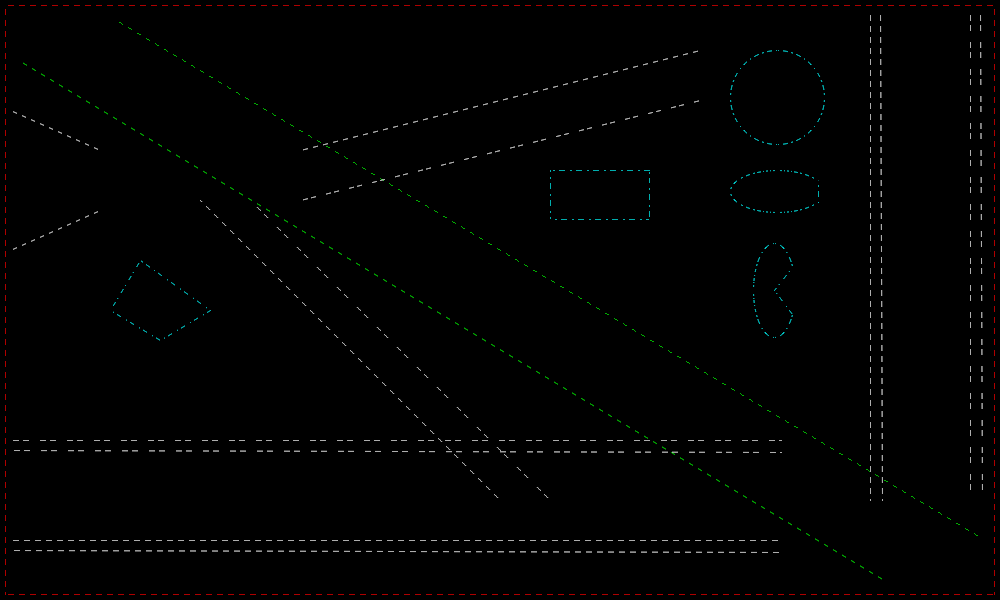
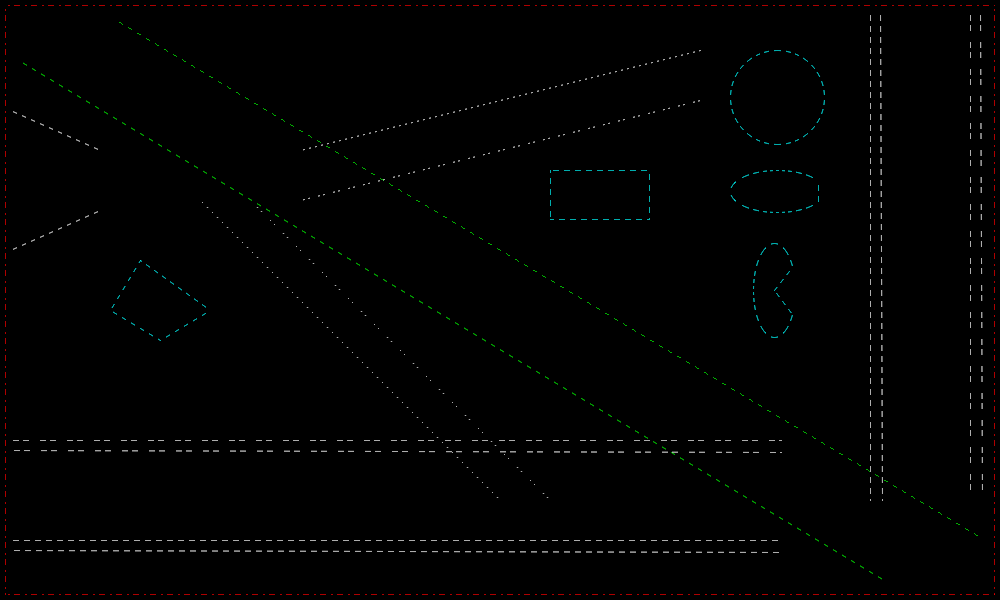
Fixing patterned line

Changed region(s): [[0.992, 0.33, 1.0, 0.36], [0.992, 0.27, 1.0, 0.3]]

diff --git a/src/Pt-Gfx/ImagePainter2_Ellipse.cpp b/src/Pt-Gfx/ImagePainter2_Ellipse.cpp
@@ -191,9 +191,6 @@ void ImagePainter2::drawOnePixelEllipseArcImpl(const PointF& topLeft, const Size
     //     * The movement from begin angle to end angle must be in counter-clockwise (CCW), otherwise
     //       something wrong will be drawn.
 
-    // Draw using solid pen?
-    const bool solid = (_rasterizer->pen().style() == Pen::Solid);
-
     // Shall we draw an ellipse or arc?
     const bool drawArc = (degBegin != 0) || (degEnd != 0);
 
@@ -207,6 +204,12 @@ void ImagePainter2::drawOnePixelEllipseArcImpl(const PointF& topLeft, const Size
     const Pt::int32_t radX2 = radX * radX;
     const Pt::int32_t radY2 = radY * radY;
     const float       xyRat = (float) radX / (float) radY;
+
+    // Draw using solid pen?
+    const bool solid = (_rasterizer->pen().style() == Pen::Solid);
+
+    // Calculate the scaling factor for retrieving alphas from the pattern buffer
+    const float pbScale = solid ? 1.0f : (radX + radY) / 100.0f;
 
     // Drawing an arc requires more parameters and calculation
     Pt::int32_t bx = 0, x1 = 0, x1d = MAXIMUM_COORD; // Begin point
@@ -256,8 +259,8 @@ void ImagePainter2::drawOnePixelEllipseArcImpl(const PointF& topLeft, const Size
                 if(solid)
                     _rasterizer->stroke4Pixels(xl, yt, xr, yb, mask);
                 else {
-                    const Pt::uint8_t pbv = _rasterizer->patternBufferValue(convertCartesianToPolarCoordinate(x, y));
-                    if(pbv) _rasterizer->stroke4Pixels(xl, yt, xr, yb, mask);
+                    const Pt::uint8_t pba = _rasterizer->patternBufferAlphaPolar(x, y, pbScale);
+                    if(pba) _rasterizer->stroke4Pixels(xl, yt, xr, yb, mask);
                 }
                 // Determine the exact coordinates of the closing lines
                 if(arcMode == ArcMode::Open) continue;
@@ -275,8 +278,8 @@ void ImagePainter2::drawOnePixelEllipseArcImpl(const PointF& topLeft, const Size
                 if(solid)
                    _rasterizer->stroke4Pixels(xl, yt, xr, yb);
                 else {
-                    const Pt::uint8_t pbv = _rasterizer->patternBufferValue(convertCartesianToPolarCoordinate(x, y));
-                    if(pbv) _rasterizer->stroke4Pixels(xl, yt, xr, yb);
+                    const Pt::uint8_t pba = _rasterizer->patternBufferAlphaPolar(x, y, pbScale);
+                    if(pba) _rasterizer->stroke4Pixels(xl, yt, xr, yb);
                 }
             }
         }
@@ -311,10 +314,10 @@ void ImagePainter2::drawOnePixelEllipseArcImpl(const PointF& topLeft, const Size
                     _rasterizer->stroke4Pixels(xl, yt1, xr, yb1, a1, mask1);
                 }
                 else {
-                    const Pt::uint8_t pbv0 = _rasterizer->patternBufferValue(convertCartesianToPolarCoordinate(x, y), a0);
-                    const Pt::uint8_t pbv1 = _rasterizer->patternBufferValue(convertCartesianToPolarCoordinate(x, y), a1);
-                    _rasterizer->stroke4Pixels(xl, yt0, xr, yb0, pbv0, mask0);
-                    _rasterizer->stroke4Pixels(xl, yt1, xr, yb1, pbv1, mask1);
+                    const Pt::uint8_t pba0 = _rasterizer->patternBufferAlphaPolar(x, y, pbScale, a0);
+                    const Pt::uint8_t pba1 = _rasterizer->patternBufferAlphaPolar(x, y, pbScale, a1);
+                    _rasterizer->stroke4Pixels(xl, yt0, xr, yb0, pba0, mask0);
+                    _rasterizer->stroke4Pixels(xl, yt1, xr, yb1, pba1, mask1);
                 }
                 // Determine the exact coordinates of the closing lines
                 if(arcMode == ArcMode::Open) continue;
@@ -340,10 +343,10 @@ void ImagePainter2::drawOnePixelEllipseArcImpl(const PointF& topLeft, const Size
                     _rasterizer->stroke4Pixels(xl, yt1, xr, yb1, a1);
                 }
                 else {
-                    const Pt::uint8_t pbv0 = _rasterizer->patternBufferValue(convertCartesianToPolarCoordinate(x, y), a0);
-                    const Pt::uint8_t pbv1 = _rasterizer->patternBufferValue(convertCartesianToPolarCoordinate(x, y), a1);
-                    _rasterizer->stroke4Pixels(xl, yt0, xr, yb0, pbv0);
-                    _rasterizer->stroke4Pixels(xl, yt1, xr, yb1, pbv1);
+                    const Pt::uint8_t pba0 = _rasterizer->patternBufferAlphaPolar(x, y, pbScale, a0);
+                    const Pt::uint8_t pba1 = _rasterizer->patternBufferAlphaPolar(x, y, pbScale, a1);
+                    _rasterizer->stroke4Pixels(xl, yt0, xr, yb0, pba0);
+                    _rasterizer->stroke4Pixels(xl, yt1, xr, yb1, pba1);
                 }
             }
         }
@@ -376,8 +379,8 @@ void ImagePainter2::drawOnePixelEllipseArcImpl(const PointF& topLeft, const Size
                 if(solid)
                     _rasterizer->stroke4Pixels(xl, yt, xr, yb, mask);
                 else {
-                    const Pt::uint8_t pbv = _rasterizer->patternBufferValue(convertCartesianToPolarCoordinate(x, y));
-                    if(pbv) _rasterizer->stroke4Pixels(xl, yt, xr, yb, mask);
+                    const Pt::uint8_t pba = _rasterizer->patternBufferAlphaPolar(x, y, pbScale);
+                    if(pba) _rasterizer->stroke4Pixels(xl, yt, xr, yb, mask);
                 }
                 // Determine the exact coordinates of the closing lines
                 if(arcMode == ArcMode::Open) continue;
@@ -395,8 +398,8 @@ void ImagePainter2::drawOnePixelEllipseArcImpl(const PointF& topLeft, const Size
                 if(solid)
                     _rasterizer->stroke4Pixels(xl, yt, xr, yb);
                 else {
-                    const Pt::uint8_t pbv = _rasterizer->patternBufferValue(convertCartesianToPolarCoordinate(x, y));
-                    if(pbv) _rasterizer->stroke4Pixels(xl, yt, xr, yb);
+                    const Pt::uint8_t pba = _rasterizer->patternBufferAlphaPolar(x, y, pbScale);
+                    if(pba) _rasterizer->stroke4Pixels(xl, yt, xr, yb);
                 }
             }
         }
@@ -431,10 +434,10 @@ void ImagePainter2::drawOnePixelEllipseArcImpl(const PointF& topLeft, const Size
                     _rasterizer->stroke4Pixels(xl1, yt, xr1, yb, a1, mask1);
                 }
                 else {
-                    const Pt::uint8_t pbv0 = _rasterizer->patternBufferValue(convertCartesianToPolarCoordinate(x, y), a0);
-                    const Pt::uint8_t pbv1 = _rasterizer->patternBufferValue(convertCartesianToPolarCoordinate(x, y), a1);
-                    _rasterizer->stroke4Pixels(xl0, yt, xr0, yb, pbv0, mask0);
-                    _rasterizer->stroke4Pixels(xl1, yt, xr1, yb, pbv1, mask1);
+                    const Pt::uint8_t pba0 = _rasterizer->patternBufferAlphaPolar(x, y, pbScale, a0);
+                    const Pt::uint8_t pba1 = _rasterizer->patternBufferAlphaPolar(x, y, pbScale, a1);
+                    _rasterizer->stroke4Pixels(xl0, yt, xr0, yb, pba0, mask0);
+                    _rasterizer->stroke4Pixels(xl1, yt, xr1, yb, pba1, mask1);
                 }
                 // Determine the exact coordinates of the closing lines
                 if(arcMode == ArcMode::Open) continue;
@@ -460,10 +463,10 @@ void ImagePainter2::drawOnePixelEllipseArcImpl(const PointF& topLeft, const Size
                     _rasterizer->stroke4Pixels(xl1, yt, xr1, yb, a1);
                 }
                 else {
-                    const Pt::uint8_t pbv0 = _rasterizer->patternBufferValue(convertCartesianToPolarCoordinate(x, y), a0);
-                    const Pt::uint8_t pbv1 = _rasterizer->patternBufferValue(convertCartesianToPolarCoordinate(x, y), a1);
-                    _rasterizer->stroke4Pixels(xl0, yt, xr0, yb, pbv0);
-                    _rasterizer->stroke4Pixels(xl1, yt, xr1, yb, pbv1);
+                    const Pt::uint8_t pba0 = _rasterizer->patternBufferAlphaPolar(x, y, pbScale, a0);
+                    const Pt::uint8_t pba1 = _rasterizer->patternBufferAlphaPolar(x, y, pbScale, a1);
+                    _rasterizer->stroke4Pixels(xl0, yt, xr0, yb, pba0);
+                    _rasterizer->stroke4Pixels(xl1, yt, xr1, yb, pba1);
                 }
             }
         }

diff --git a/src/Pt-Gfx/tests/ImagePainterTest2_Draw_Outline.cpp b/src/Pt-Gfx/tests/ImagePainterTest2_Draw_Outline.cpp
@@ -65,7 +65,7 @@ static void testDrawPatternedLine(const char* title, Image& image, Painter& pain
 
     if(ip2) ip2->setAntiAliasingMode(AntiAliasingMode::Fastest);
 
-    painter.setPen( Pen( Color::fromRgb8(255, 0, 0, 175), 1, Pen::Dash )  );
+    painter.setPen( Pen( Color::fromRgb8(255, 0, 0, 175), 1, Pen::DotDash )  );
     painter.drawLine( PointF(  5,   5), PointF(994,   5) );
     painter.drawLine( PointF(  5, 594), PointF(994, 594) );
     painter.drawLine( PointF(  5,   5), PointF(  5, 594) );
@@ -75,11 +75,11 @@ static void testDrawPatternedLine(const char* title, Image& image, Painter& pain
     painter.drawLine( PointF( 10, 110), PointF(100, 150) );
     painter.drawLine( PointF( 10, 250), PointF(100, 210) );
 
-    painter.setPen( Pen( Color::fromRgb8(255, 255, 255, 175), 1, Pen::Dash )  );
+    painter.setPen( Pen( Color::fromRgb8(255, 255, 255, 175), 1, Pen::Dot )  );
     painter.drawLine( PointF(500, 500), PointF(200, 200) );
     painter.drawLine( PointF(300, 150), PointF(700,  50) );
 
-    painter.setPen( Pen( Color::fromRgb8(255, 255, 255, 175), 1, Pen::DoubleDash )  );
+    painter.setPen( Pen( Color::fromRgb8(255, 255, 255, 175), 1, Pen::DoubleDot )  );
     painter.drawLine( PointF(550, 500), PointF(250, 200) );
     painter.drawLine( PointF(300, 200), PointF(700, 100) );
 
@@ -96,7 +96,7 @@ static void testDrawPatternedLine(const char* title, Image& image, Painter& pain
     painter.drawLine( PointF(781, 452), PointF( 10, 450) );
 
     if(ip2) ip2->setAntiAliasingMode(AntiAliasingMode::Fastest);
-    painter.setPen( Pen( Color::fromRgb8(0, 255, 255, 175), 1, Pen::DotDash )  );
+    painter.setPen( Pen( Color::fromRgb8(0, 255, 255, 175), 1, Pen::Dash )  );
 
     const PointF poly[] = { // CCW
         PointF(110, 310),

diff --git a/include/Pt/Gfx/ImagePainter2.h b/include/Pt/Gfx/ImagePainter2.h
@@ -188,7 +188,6 @@ class PT_GFX_API ImagePainter2 : public Painter
 
     protected:
         // Inline helper functions
-        static inline float convertCartesianToPolarCoordinate(float x, float y);
         static inline bool pointIsInsideArcDegRange(Pt::int32_t x, Pt::int32_t y, Pt::int32_t ctrX, Pt::int32_t ctrY, float degBegin, float degEnd, float xyRatio);
 
         // Arc-related helper functions
@@ -221,16 +220,6 @@ class PT_GFX_API ImagePainter2 : public Painter
 // ===== Private Member Structures and Functions ========================================
 // ======================================================================================
 
-inline float ImagePainter2::convertCartesianToPolarCoordinate(float x, float y)
-{
-    // Quadrant I & II
-    if(y >= 0)
-        return Gfx::Math::fastAtan2(y, x) * 180 / Pt::Pi;
-
-    // Quadrant III && IV
-    return Gfx::Math::fastAtan2(y, x) * 180 / Pt::Pi + 360;
-}
-
 inline bool ImagePainter2::pointIsInsideArcDegRange(Pt::int32_t x, Pt::int32_t y, Pt::int32_t ctrX, Pt::int32_t ctrY, float degBegin, float degEnd, float xyRatio)
 {
     // IMPORTANT NOTES:
@@ -241,7 +230,7 @@ inline bool ImagePainter2::pointIsInsideArcDegRange(Pt::int32_t x, Pt::int32_t y
     //     * The movement from begin angle to end angle must be in counter-clockwise (CCW), otherwise
     //       something wrong will be drawn.
 
-    const float angle = convertCartesianToPolarCoordinate( (x - ctrX), -(y - ctrY) * xyRatio);
+    const float angle = Gfx::Math::convertCartesianToPolarCoordinate( (x - ctrX), -(y - ctrY) * xyRatio);
 
     if(degBegin < 0 && degEnd < 0) {
         return angle >= (degBegin + 360) && angle <= (degEnd + 360);

diff --git a/src/Pt-Gfx/Rasterizer2.h b/src/Pt-Gfx/Rasterizer2.h
@@ -185,11 +185,17 @@ class Rasterizer2
     public:
         void updateGradientBrushAsNeeded(Pt::int32_t width, Pt::int32_t height);
 
-        inline Pt::uint8_t patternBufferValue(Pt::int32_t idx)
+        inline Pt::uint8_t patternBufferAlpha(Pt::int32_t idx)
         { return _patternBuffer[idx % FIXED_POINT_TO_INT(_fpatternMaxCtr)];  }
 
-        inline Pt::uint8_t patternBufferValue(Pt::int32_t idx, Pt::uint8_t alpha)
+        inline Pt::uint8_t patternBufferAlpha(Pt::int32_t idx, Pt::uint8_t alpha)
         { return (Pt::uint32_t) _patternBuffer[idx % FIXED_POINT_TO_INT(_fpatternMaxCtr)] * alpha / 255;  }
+
+        inline Pt::uint8_t patternBufferAlphaPolar(Pt::int32_t x, Pt::int32_t y, float scale)
+        {  return patternBufferAlpha( Gfx::Math::convertCartesianToPolarCoordinate(x, y) * scale ); }
+
+        inline Pt::uint8_t patternBufferAlphaPolar(Pt::int32_t x, Pt::int32_t y, float scale, Pt::uint8_t alpha)
+        {  return patternBufferAlpha( Gfx::Math::convertCartesianToPolarCoordinate(x, y) * scale, alpha ); }
 
     private:
         // Polygon scanlines

diff --git a/src/Pt-Gfx/ImagePainter2_Arc.cpp b/src/Pt-Gfx/ImagePainter2_Arc.cpp
@@ -121,7 +121,8 @@ void ImagePainter2::fillArcChordImpl(FilledArcInfo& fai)
     if(!fai.antiAlias) return;
 
     // Draw the anti-aliased circumference pixels
-    // ### TODO: There are out-of-place brighter-pixel artifacts in SourceOverMode !!! ###
+    // ### TODO: * Fix missing pixels in all mode !!! ###
+    // ### TODO: * Fix out-of-place brighter-pixel artifacts in SourceOver mode !!! ###
     arcUtil_drawCircumferencePixels(fai);
 
     // Draw the closing line
@@ -178,7 +179,8 @@ void ImagePainter2::fillArcPieImpl(FilledArcInfo& fai)
     if(!fai.antiAlias) return;
 
     // Draw the anti-aliased circumference pixels
-    // ### TODO: There are out-of-place brighter-pixel artifacts in SourceOverMode !!! ###
+    // ### TODO: * Fix missing pixels in all mode !!! ###
+    // ### TODO: * Fix out-of-place brighter-pixel artifacts in SourceOver mode !!! ###
     arcUtil_drawCircumferencePixels(fai);
 
     // Draw the closing lines

diff --git a/include/Pt/Gfx/Math.h b/include/Pt/Gfx/Math.h
@@ -159,6 +159,16 @@ inline float fastCos(float x)
 inline float fastAtan2(float y, float x)
 { return Gfx::Math::fastAtan2_impl(y, x); }
 
+inline float convertCartesianToPolarCoordinate(float x, float y)
+{
+    // Quadrant I & II
+    if(y >= 0)
+        return Gfx::Math::fastAtan2(y, x) * 180 / Pt::Pi;
+
+    // Quadrant III && IV
+    return Gfx::Math::fastAtan2(y, x) * 180 / Pt::Pi + 360;
+}
+
 
 } // namespace
 } // namespace
